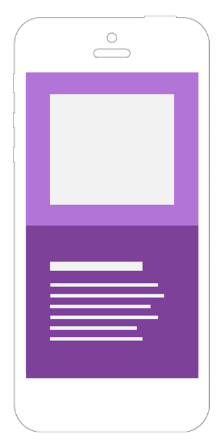
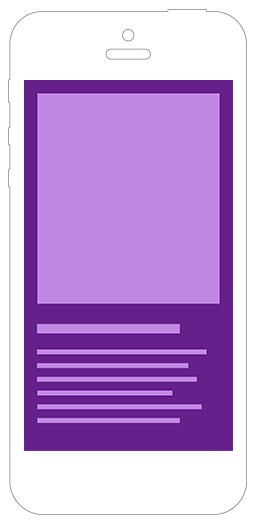
animations in place ; phone background is real-size

diff --git a/assets/styles.min.css b/assets/styles.min.css
@@ -1,1 +1,1 @@
-@import url(http://fonts.googleapis.com/css?family=Roboto:400,100,100italic,300,300italic,400italic,500,500italic,700,700italic,900,900italic);.orange{color:#FF9F19}.light-orange{color:#fecf8c}.faint-orange{color:#ffecd1}.sky{color:#b0dfe2}.light-sky{color:#d6eeef}.faint-sky{color:#f0f9fb}.teal{color:#4faebc}.pink{color:#f5505e}.aqua{color:#3bb7ad}.navy{color:#023d4d}.light-navy{color:#7f9ca5}.faint-navy{color:#ced9db}.white{color:#FFF}.off-white{color:#f7f7f7}.gray{color:#707070}.light-gray{color:#c3c3c3}.faint-gray{color:#f4f4f4}.dark-gray{color:#313442}.off-black{color:#222}.bg-orange{background-color:#FF9F19;color:#FFF}.bg-light-orange{background-color:#fecf8c}.bg-faint-orange{background-color:#ffecd1}.bg-sky{background-color:#b0dfe2;color:#023d4d}.bg-light-sky{background-color:#d6eeef}.bg-faint-sky{background-color:#f0f9fb}.bg-teal{background-color:#4faebc;color:#FFF}.bg-pink{background-color:#f5505e;color:#FFF}.bg-aqua{background-color:#3bb7ad;color:#FFF}.bg-navy{background-color:#023d4d;color:#FFF}.bg-light-navy{background-color:#7f9ca5}.bg-faint-navy{background-color:#ced9db}.bg-white{background-color:#FFF}.bg-off-white{background-color:#f7f7f7}.bg-gray{background-color:#707070}.bg-light-gray{background-color:#c3c3c3}.bg-faint-gray{background-color:#f4f4f4}.bg-dark-gray{background-color:#313442}.bg-off-black{background-color:#222}.float-left{float:left}.float-right{float:right}.inline-block{display:inline-block}.fullwidth{width:100%}.centered{text-align:center}img.centered{display:block;margin:auto}.shadow{text-shadow:0px 2px 2px rgba(0,0,0,0.4)}.airy{margin-bottom:1em}i.graphic{font-size:4em}.menu-text{text-transform:uppercase;font-size:18px;line-height:39px;letter-spacing:75}h1,h2,h3,h4,h5,h6{font-weight:100;margin:0}.fa-graphic{font-size:88px}@media screen and (max-width: 480px){.s1{font-size:1.4em}.s2{font-size:1.2em;text-align:left}.s3{font-size:1.1em;line-height:1.6}}html,body{padding:0;margin:0}body{padding-top:80px;font-family:"Roboto","Helvetica Neue","Arial",sans-serif;font-weight:300;color:#313442}a{color:#7c489b}a:hover{color:#fa8a18}a.inverse{background-color:#FF9F19;color:#FFF}a.inverse:hover{background-color:#fa8a18 !important}h1,h2,h3,h4,h5,h6{font-weight:100}h2{color:#7c489b;font-size:2.4rem;padding-bottom:2.8rem;padding-top:2rem;font-weight:300}p.copy{font-size:1.8rem}.centered{text-align:center}.menu-icon{color:#fff;font-size:2rem}.main-menu-header{height:auto;background:#7c489b;border-bottom:4px solid #6d3794;position:fixed;top:0;width:100%;z-index:98}.main-menu-header .logo{float:left;max-width:220px}.main-menu-header .open-menu{float:right;padding:1rem;cursor:pointer}.main-menu-header .open-menu:hover{background:#6d3794}.main-menu-overlay{position:fixed;top:0;bottom:0;right:0;left:0;color:#FFF;background:#7c489b;z-index:100}.main-menu-overlay .main-menu{clear:both;list-style:none;padding:0;margin:0;color:#fff;text-transform:uppercase;font-size:1.8rem;text-align:center}.main-menu-overlay .main-menu li{line-height:3rem}.main-menu-overlay .main-menu a{color:#fff;text-decoration:none;font-weight:300}.main-menu-overlay .main-menu a:hover{font-weight:500}.main-menu-overlay .close-menu{float:right;padding:1.6rem 2rem;cursor:pointer}.main-menu-overlay .close-menu:hover{background:#6d3794}section{width:100%;clear:both;background-size:cover;background-position:center center}section.padded{padding-top:2rem;padding-bottom:2rem}section.pitch .row{padding:2rem 0}@media screen and (min-width: 768px){.row{padding:4rem 0}}section.divider{background:#7c489b;color:#FFF}section.divider a{color:#FFF}section.footer{background:#a09fa0;margin-top:10rem;padding-top:2rem;border-top:1px solid #888}section.faq h3{text-align:left}.some-bg{background-image:url("some_url.png")}.phone-wrapper{display:block;margin:1rem auto;position:relative;width:100%;max-width:200px;background:teal}.phone-wrapper .phone-background{position:absolute;top:0;left:0}.phone-wrapper .animation{position:absolute;top:20;left:20}.video-placeholder{display:block;margin:auto;width:100%;max-width:640px;position:relative}.features{list-style:none;padding:0;margin:0;color:#707070;text-align:center;font-size:1.8rem}.features li{padding-bottom:0.8rem}@media screen and (min-width: 768px){.features{display:table}.features li{display:inline-block;padding:4px;height:120px;position:relative;margin-top:0;margin-bottom:0}.features .guts{display:table-cell;padding:20px;border:1px solid #c3c3c3;-webkit-border-radius:8px;-moz-border-radius:8px;-ms-border-radius:8px;border-radius:8px;width:400px}}.flags{list-style:none;padding:0;margin:0;text-align:center}.flags li{-webkit-border-radius:50%;-moz-border-radius:50%;-ms-border-radius:50%;border-radius:50%;display:inline-block}.flags img{-webkit-border-radius:50%;-moz-border-radius:50%;-ms-border-radius:50%;border-radius:50%}.social-icons{list-style:none;padding:0;margin:0;color:#FFF;font-size:3rem;padding:2rem}.social-icons li{color:#FFF;display:inline-block;border:1px solid #FFF;-webkit-border-radius:50%;-moz-border-radius:50%;-ms-border-radius:50%;border-radius:50%;padding:0.4rem;cursor:pointer}.social-icons li:hover{background:#7c489b}.sitemap{list-style:none;padding:0;margin:0;text-align:center;color:#666;padding:2rem}.sitemap li{display:inline-block;padding:0.6rem 0.4rem}.sitemap li:first-child{border-left:none}.sitemap a{font-size:1.2rem;font-weight:500;color:#303030;text-decoration:none;text-transform:uppercase}.sitemap a:hover{text-decoration:underline}@media screen and (max-width: 500px){.sitemap li{display:block;border:none;padding:0.6rem 0 0 0}}.team{list-style:none;padding:0;margin:0;text-align:center;margin-top:3rem}.team li{margin:2rem 1rem;display:inline-block}.team .name{color:#7c489b;font-size:1.6rem}.team .title{color:#707070;font-size:1.7rem}.team img{width:180px;margin-bottom:1rem}.posts{list-style:none;padding:0;margin:0;color:#707070;font-size:2.1rem}.posts li{margin-bottom:6rem}.posts .source{font-weight:500}.posts .date{color:#6d3794;font-size:1rem}.posts .media{font-weight:500;font-size:1.4rem}.zen-button{-webkit-border-radius:4px;-moz-border-radius:4px;-ms-border-radius:4px;border-radius:4px;font-weight:100;border:1px solid #ed282a;padding:10px 10px 10px 10px;text-decoration:none;text-transform:uppercase;display:inline-block;text-shadow:-1px -1px 0 rgba(0,0,0,0.3);color:#fff;background-color:#F15C5D;background-image:-webkit-gradient(linear, left top, left bottom, from(#F15C5D), to(#F69146));background-image:-webkit-linear-gradient(top, #F15C5D, #F69146);background-image:-moz-linear-gradient(top, #F15C5D, #F69146);background-image:-ms-linear-gradient(top, #F15C5D, #F69146);background-image:-o-linear-gradient(top, #F15C5D, #F69146);background-image:linear-gradient(to bottom, #F15C5D, #F69146)}.zen-button:hover{border:1px solid #d51214;background-color:#ed2d2e;background-image:-webkit-gradient(linear, left top, left bottom, from(#ed2d2e), to(#f47415));background-image:-webkit-linear-gradient(top, #ed2d2e, #f47415);background-image:-moz-linear-gradient(top, #ed2d2e, #f47415);background-image:-ms-linear-gradient(top, #ed2d2e, #f47415);background-image:-o-linear-gradient(top, #ed2d2e, #f47415);background-image:linear-gradient(to bottom, #ed2d2e, #f47415)}@media screen and (min-width: 768px){.zen-button{float:right;margin-right:2rem;margin-bottom:-20px;-webkit-border-radius:25px;-moz-border-radius:25px;-ms-border-radius:25px;border-radius:25px}}@media screen and (max-width: 768px){.zen-button{width:100%;-webkit-border-radius:0;-moz-border-radius:0;-ms-border-radius:0;border-radius:0;border:none}}.page-wrapper{background-color:#FFF;width:100%;max-width:960px;margin:auto;padding:0}.content-wrapper,.negative-wrapper{max-width:960px;margin:auto;padding:1em}.content-wrapper.squashed,.negative-wrapper.squashed{padding-top:0;padding-bottom:0}.large-margins{padding-top:4em;padding-bottom:4em}h3.call-to-action{color:#fff;text-transform:uppercase;padding:1.8rem}h3.feature{margin-top:2rem;padding-bottom:1rem;color:#707070;font-size:2rem;line-height:3.1rem;text-align:center}.feature-description{font-size:1.4rem;text-align:center}@media screen and (min-width: 768px){h3.feature{font-size:3.2rem;line-height:4.2rem;text-align:left}.feature-description{font-size:1.8rem;text-align:left}}.review{color:#f7f7f7;font-size:1.2rem;text-align:center}.reviewer{font-size:1rem;font-weight:500;text-align:center}.burst{border:1px solid #c3c3c3;-webkit-border-radius:2rem;-moz-border-radius:2rem;-ms-border-radius:2rem;border-radius:2rem;padding:2rem;max-width:180px;color:#7c489b;margin:1.6rem auto}.burst .small{font-size:1.1rem;font-weight:300}.burst .large{font-size:2.8rem}.credit-card{margin:auto;-webkit-border-radius:24px;-moz-border-radius:24px;-ms-border-radius:24px;border-radius:24px}.editor{margin-bottom:4rem;font-size:1.5rem;color:#707070}.editor a{font-weight:500;color:#707070}.delimiter{color:#c3c3c3}.some-selector span:last-child .delimiter{display:none}hr.hairline{background:#CCC;height:1px;border:none;width:96%;margin-left:auto;margin-right:auto}table{width:100%}table tr:nth-child(2n){background:#EEE}table tr:hover{background:#c3c3c3}table td{padding:2px}.copyright{text-align:center;color:#707070;font-size:0.9rem}.hover-opacity:hover{opacity:0.64;filter:alpha(opacity=64);-ms-filter:"progid: DXImageTransform.Microsoft.Alpha(Opacity=$opacity)"}@media screen and (max-width: 480px){.hide-from-mobile{display:none}}
+@import url(http://fonts.googleapis.com/css?family=Roboto:400,100,100italic,300,300italic,400italic,500,500italic,700,700italic,900,900italic);.orange{color:#FF9F19}.light-orange{color:#fecf8c}.faint-orange{color:#ffecd1}.sky{color:#b0dfe2}.light-sky{color:#d6eeef}.faint-sky{color:#f0f9fb}.teal{color:#4faebc}.pink{color:#f5505e}.aqua{color:#3bb7ad}.navy{color:#023d4d}.light-navy{color:#7f9ca5}.faint-navy{color:#ced9db}.white{color:#FFF}.off-white{color:#f7f7f7}.gray{color:#707070}.light-gray{color:#c3c3c3}.faint-gray{color:#f4f4f4}.dark-gray{color:#313442}.off-black{color:#222}.bg-orange{background-color:#FF9F19;color:#FFF}.bg-light-orange{background-color:#fecf8c}.bg-faint-orange{background-color:#ffecd1}.bg-sky{background-color:#b0dfe2;color:#023d4d}.bg-light-sky{background-color:#d6eeef}.bg-faint-sky{background-color:#f0f9fb}.bg-teal{background-color:#4faebc;color:#FFF}.bg-pink{background-color:#f5505e;color:#FFF}.bg-aqua{background-color:#3bb7ad;color:#FFF}.bg-navy{background-color:#023d4d;color:#FFF}.bg-light-navy{background-color:#7f9ca5}.bg-faint-navy{background-color:#ced9db}.bg-white{background-color:#FFF}.bg-off-white{background-color:#f7f7f7}.bg-gray{background-color:#707070}.bg-light-gray{background-color:#c3c3c3}.bg-faint-gray{background-color:#f4f4f4}.bg-dark-gray{background-color:#313442}.bg-off-black{background-color:#222}.float-left{float:left}.float-right{float:right}.inline-block{display:inline-block}.fullwidth{width:100%}.centered{text-align:center}img.centered{display:block;margin:auto}.shadow{text-shadow:0px 2px 2px rgba(0,0,0,0.4)}.airy{margin-bottom:1em}i.graphic{font-size:4em}.menu-text{text-transform:uppercase;font-size:18px;line-height:39px;letter-spacing:75}h1,h2,h3,h4,h5,h6{font-weight:100;margin:0}.fa-graphic{font-size:88px}@media screen and (max-width: 480px){.s1{font-size:1.4em}.s2{font-size:1.2em;text-align:left}.s3{font-size:1.1em;line-height:1.6}}html,body{padding:0;margin:0}body{padding-top:80px;font-family:"Roboto","Helvetica Neue","Arial",sans-serif;font-weight:300;color:#313442}a{color:#7c489b}a:hover{color:#fa8a18}a.inverse{background-color:#FF9F19;color:#FFF}a.inverse:hover{background-color:#fa8a18 !important}h1,h2,h3,h4,h5,h6{font-weight:100}h2{color:#7c489b;font-size:2.4rem;padding-bottom:2.8rem;padding-top:2rem;font-weight:300}p.copy{font-size:1.8rem}.centered{text-align:center}.menu-icon{color:#fff;font-size:2rem}.main-menu-header{height:auto;background:#7c489b;border-bottom:4px solid #6d3794;position:fixed;top:0;width:100%;z-index:98}.main-menu-header .logo{float:left;max-width:220px}.main-menu-header .open-menu{float:right;padding:1rem;cursor:pointer}.main-menu-header .open-menu:hover{background:#6d3794}.main-menu-overlay{position:fixed;top:0;bottom:0;right:0;left:0;color:#FFF;background:#7c489b;z-index:100}.main-menu-overlay .main-menu{clear:both;list-style:none;padding:0;margin:0;color:#fff;text-transform:uppercase;font-size:1.8rem;text-align:center}.main-menu-overlay .main-menu li{line-height:3rem}.main-menu-overlay .main-menu a{color:#fff;text-decoration:none;font-weight:300}.main-menu-overlay .main-menu a:hover{font-weight:500}.main-menu-overlay .close-menu{float:right;padding:1.6rem 2rem;cursor:pointer}.main-menu-overlay .close-menu:hover{background:#6d3794}section{width:100%;clear:both;background-size:cover;background-position:center center}section.padded{padding-top:2rem;padding-bottom:2rem}section.pitch .row{padding:2rem 0}@media screen and (min-width: 768px){.row{padding:4rem 0}}section.divider{background:#7c489b;color:#FFF}section.divider a{color:#FFF}section.footer{background:#a09fa0;margin-top:10rem;padding-top:2rem;border-top:1px solid #888}section.faq h3{text-align:left}.some-bg{background-image:url("some_url.png")}.phone-wrapper{display:block;margin:1rem auto;position:relative;width:100%;max-width:255px}.phone-wrapper .animation{position:absolute;top:79px;left:23px}.video-placeholder{display:block;margin:auto;width:100%;max-width:640px;position:relative}.features{list-style:none;padding:0;margin:0;color:#707070;text-align:center;font-size:1.8rem}.features li{padding-bottom:0.8rem}@media screen and (min-width: 768px){.features{display:table}.features li{display:inline-block;padding:4px;height:120px;position:relative;margin-top:0;margin-bottom:0}.features .guts{display:table-cell;padding:20px;border:1px solid #c3c3c3;-webkit-border-radius:8px;-moz-border-radius:8px;-ms-border-radius:8px;border-radius:8px;width:400px}}.flags{list-style:none;padding:0;margin:0;text-align:center}.flags li{-webkit-border-radius:50%;-moz-border-radius:50%;-ms-border-radius:50%;border-radius:50%;display:inline-block}.flags img{-webkit-border-radius:50%;-moz-border-radius:50%;-ms-border-radius:50%;border-radius:50%}.social-icons{list-style:none;padding:0;margin:0;color:#FFF;font-size:3rem;padding:2rem}.social-icons li{color:#FFF;display:inline-block;border:1px solid #FFF;-webkit-border-radius:50%;-moz-border-radius:50%;-ms-border-radius:50%;border-radius:50%;padding:0.4rem;cursor:pointer}.social-icons li:hover{background:#7c489b}.sitemap{list-style:none;padding:0;margin:0;text-align:center;color:#666;padding:2rem}.sitemap li{display:inline-block;padding:0.6rem 0.4rem}.sitemap li:first-child{border-left:none}.sitemap a{font-size:1.2rem;font-weight:500;color:#303030;text-decoration:none;text-transform:uppercase}.sitemap a:hover{text-decoration:underline}@media screen and (max-width: 500px){.sitemap li{display:block;border:none;padding:0.6rem 0 0 0}}.team{list-style:none;padding:0;margin:0;text-align:center;margin-top:3rem}.team li{margin:2rem 1rem;display:inline-block}.team .name{color:#7c489b;font-size:1.6rem}.team .title{color:#707070;font-size:1.7rem}.team img{width:180px;margin-bottom:1rem}.posts{list-style:none;padding:0;margin:0;color:#707070;font-size:2.1rem}.posts li{margin-bottom:6rem}.posts .source{font-weight:500}.posts .date{color:#6d3794;font-size:1rem}.posts .media{font-weight:500;font-size:1.4rem}.zen-button{-webkit-border-radius:4px;-moz-border-radius:4px;-ms-border-radius:4px;border-radius:4px;font-weight:100;border:1px solid #ed282a;padding:10px 10px 10px 10px;text-decoration:none;text-transform:uppercase;display:inline-block;text-shadow:-1px -1px 0 rgba(0,0,0,0.3);color:#fff;background-color:#F15C5D;background-image:-webkit-gradient(linear, left top, left bottom, from(#F15C5D), to(#F69146));background-image:-webkit-linear-gradient(top, #F15C5D, #F69146);background-image:-moz-linear-gradient(top, #F15C5D, #F69146);background-image:-ms-linear-gradient(top, #F15C5D, #F69146);background-image:-o-linear-gradient(top, #F15C5D, #F69146);background-image:linear-gradient(to bottom, #F15C5D, #F69146)}.zen-button:hover{border:1px solid #d51214;background-color:#ed2d2e;background-image:-webkit-gradient(linear, left top, left bottom, from(#ed2d2e), to(#f47415));background-image:-webkit-linear-gradient(top, #ed2d2e, #f47415);background-image:-moz-linear-gradient(top, #ed2d2e, #f47415);background-image:-ms-linear-gradient(top, #ed2d2e, #f47415);background-image:-o-linear-gradient(top, #ed2d2e, #f47415);background-image:linear-gradient(to bottom, #ed2d2e, #f47415)}@media screen and (min-width: 768px){.zen-button{float:right;margin-right:2rem;margin-bottom:-20px;-webkit-border-radius:25px;-moz-border-radius:25px;-ms-border-radius:25px;border-radius:25px}}@media screen and (max-width: 768px){.zen-button{width:100%;-webkit-border-radius:0;-moz-border-radius:0;-ms-border-radius:0;border-radius:0;border:none}}.page-wrapper{background-color:#FFF;width:100%;max-width:960px;margin:auto;padding:0}.content-wrapper,.negative-wrapper{max-width:960px;margin:auto;padding:1em}.content-wrapper.squashed,.negative-wrapper.squashed{padding-top:0;padding-bottom:0}.large-margins{padding-top:4em;padding-bottom:4em}h3.call-to-action{color:#fff;text-transform:uppercase;padding:1.8rem}h3.feature{margin-top:2rem;padding-bottom:1rem;color:#707070;font-size:2rem;line-height:3.1rem;text-align:center}.feature-description{font-size:1.4rem;text-align:center}@media screen and (min-width: 768px){h3.feature{font-size:3.2rem;line-height:4.2rem;text-align:left}.feature-description{font-size:1.8rem;text-align:left}}.review{color:#f7f7f7;font-size:1.2rem;text-align:center}.reviewer{font-size:1rem;font-weight:500;text-align:center}.burst{border:1px solid #c3c3c3;-webkit-border-radius:2rem;-moz-border-radius:2rem;-ms-border-radius:2rem;border-radius:2rem;padding:2rem;max-width:180px;color:#7c489b;margin:1.6rem auto}.burst .small{font-size:1.1rem;font-weight:300}.burst .large{font-size:2.8rem}.credit-card{margin:auto;-webkit-border-radius:24px;-moz-border-radius:24px;-ms-border-radius:24px;border-radius:24px}.editor{margin-bottom:4rem;font-size:1.5rem;color:#707070}.editor a{font-weight:500;color:#707070}.delimiter{color:#c3c3c3}.some-selector span:last-child .delimiter{display:none}hr.hairline{background:#CCC;height:1px;border:none;width:96%;margin-left:auto;margin-right:auto}table{width:100%}table tr:nth-child(2n){background:#EEE}table tr:hover{background:#c3c3c3}table td{padding:2px}.copyright{text-align:center;color:#707070;font-size:0.9rem}.hover-opacity:hover{opacity:0.64;filter:alpha(opacity=64);-ms-filter:"progid: DXImageTransform.Microsoft.Alpha(Opacity=$opacity)"}@media screen and (max-width: 480px){.hide-from-mobile{display:none}}

diff --git a/static/partials/landing.html b/static/partials/landing.html
@@ -67,7 +67,7 @@
 <div class="content-wrapper">
 
     <h2 class="centered">See How ZenBanx Works</h2>
-    <img class="video-placeholder" src="http://lorempixel.com/400/240" alt="See How ZenBanx Works - Video" />
+    <img class="video-placeholder" src="/assets/img/video-placeholder.png" alt="See How ZenBanx Works - Video" />
 
 </div>
 </section>
@@ -82,6 +82,7 @@
             <div class="phone-wrapper">
                 <img class="phone-background" src="/assets/img/phone-background.png" />
                 <img class="animation" src="/assets/animations/send-money.gif" />
+                <div class="clearfix"></div>
             </div>
         </div>
 
@@ -154,7 +155,11 @@
     <div class="row">
 
         <div class="col-xs-12 col-sm-4 col-sm-push-4">
-            <img class="phone-placeholder" src="http://lorempixel.com/200/480" />
+            <div class="phone-wrapper">
+                <img class="phone-background" src="/assets/img/phone-background.png" />
+                <img class="animation" src="/assets/animations/add-contact.gif" />
+                <div class="clearfix"></div>
+            </div>
         </div>
 
         <div class="col-xs-12 col-sm-4 col-sm-pull-4">
@@ -170,7 +175,11 @@
     <div class="row">
 
         <div class="col-xs-12 col-sm-4 col-sm-push-4">
-            <img class="phone-placeholder" src="http://lorempixel.com/200/480" />
+            <div class="phone-wrapper">
+                <img class="phone-background" src="/assets/img/phone-background.png" />
+                <img class="animation" src="/assets/animations/exchange-money.gif" />
+                <div class="clearfix"></div>
+            </div>
         </div>
 
         <div class="col-xs-12 col-sm-4 col-sm-pull-4">

diff --git a/static/sass/styles.sass b/static/sass/styles.sass
@@ -178,18 +178,12 @@ section.faq
     margin: 1rem auto
     position: relative
     width: 100%
-    max-width: 200px
-    background: teal
-
-    .phone-background
-        position: absolute
-        top: 0
-        left: 0
+    max-width: 255px
 
     .animation
         position: absolute
-        top: 20
-        left: 20
+        top: 79px
+        left: 23px
 
 .video-placeholder
     display: block
